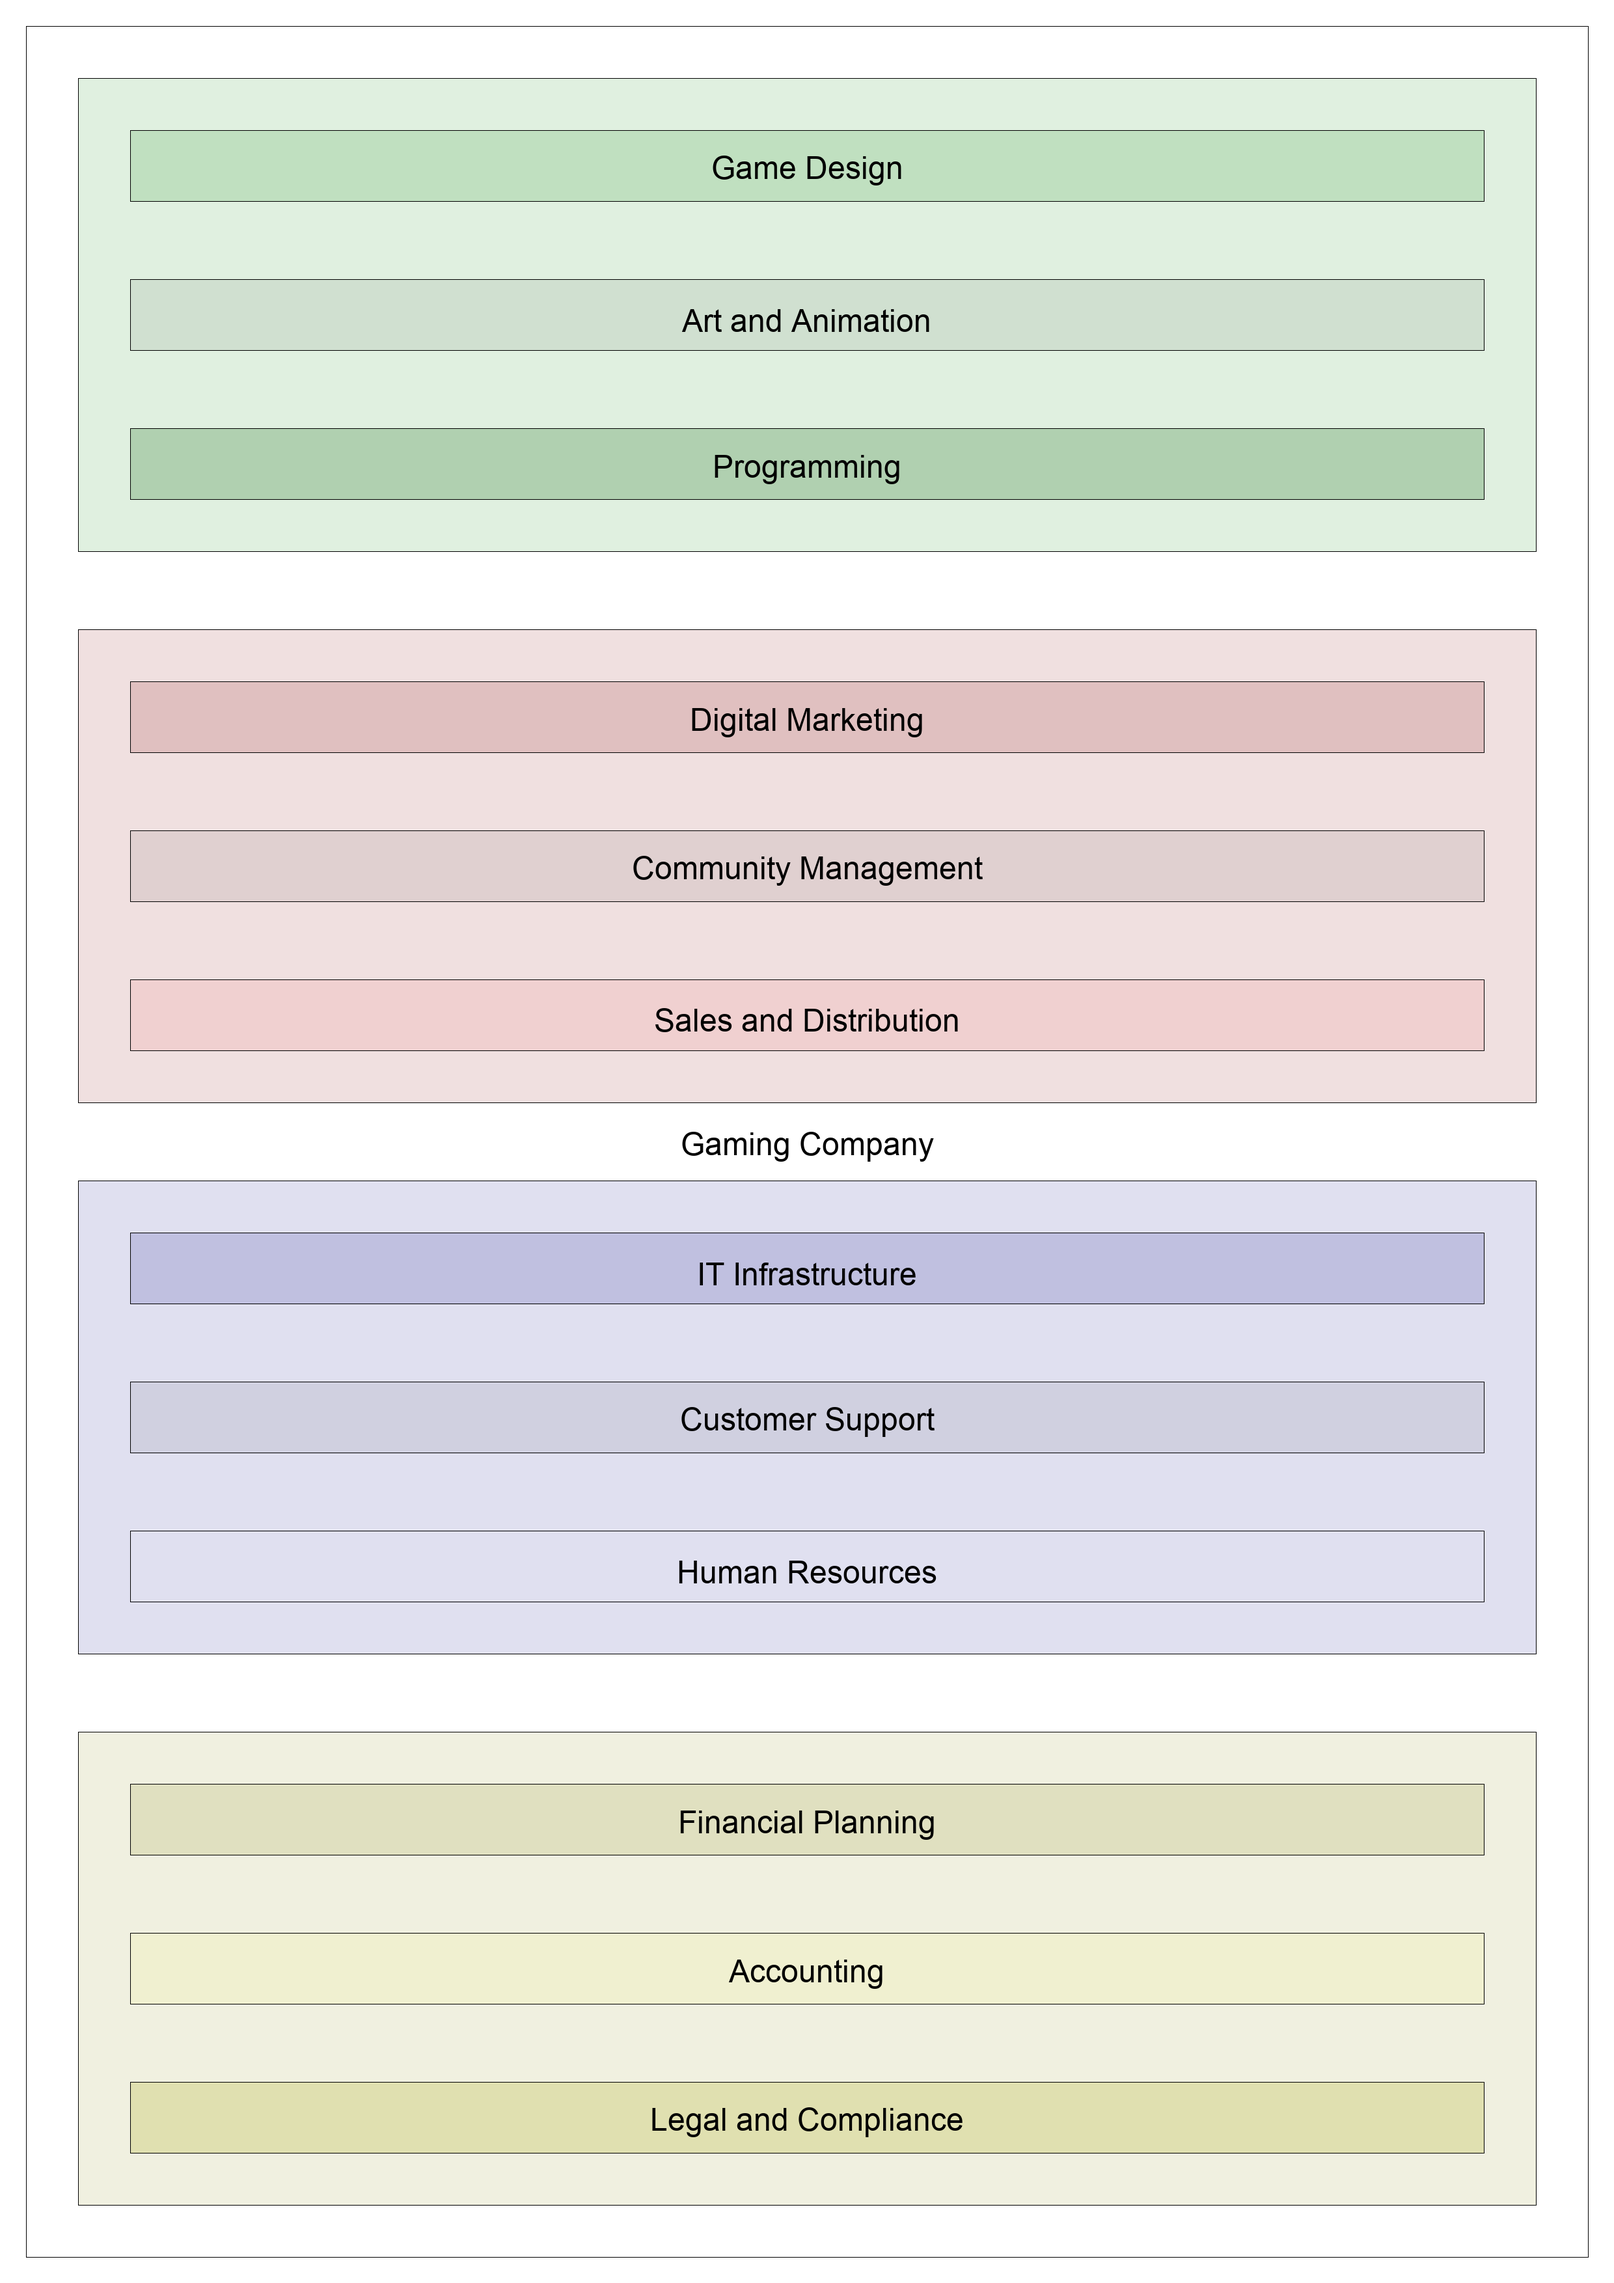
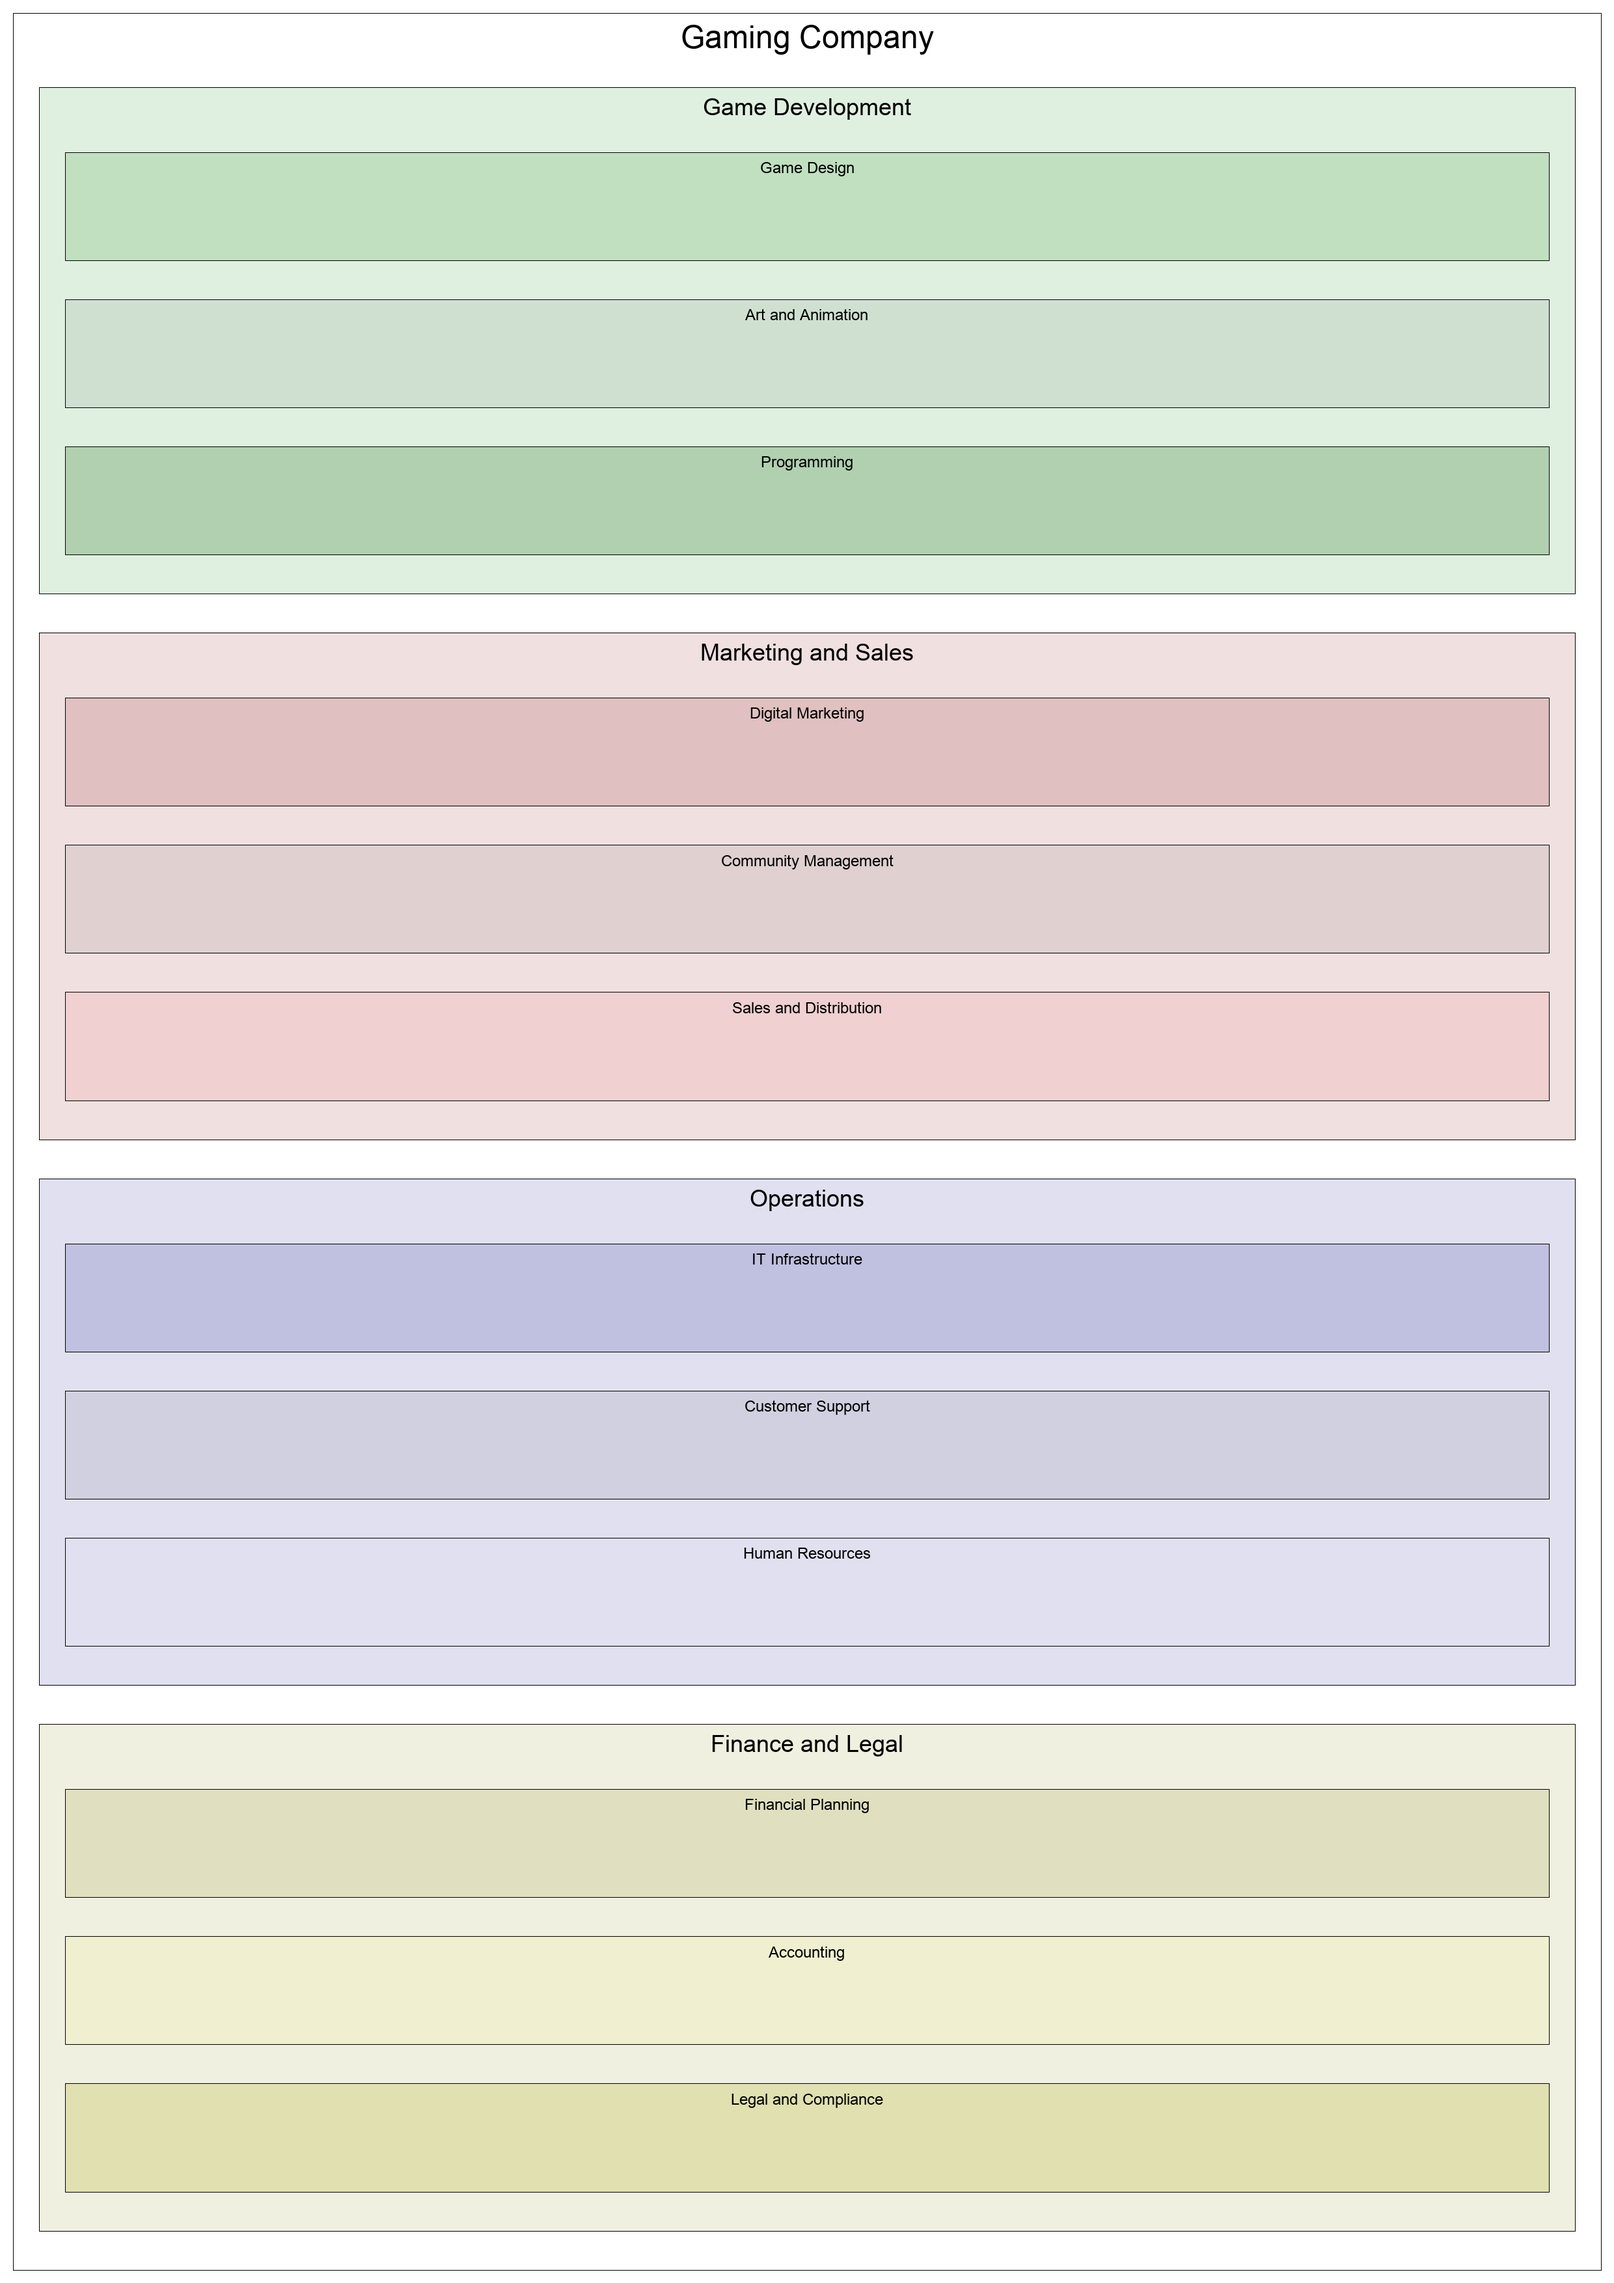
4th working version

Changed region(s): [[0.0, 0.0, 0.9935, 0.9943]]

diff --git a/bib-dsl.py b/bib-dsl.py
@@ -6,17 +6,22 @@ class BiBDSL:
     def __init__(self, yaml_file):
         self.data = self.load_yaml(yaml_file)
         self.boxes = {}
-        self.padding = 40
-        self.text_margin = 20
-        self.min_box_size = 100  # Increased minimum size for better readability
-        self.max_depth = 3  # Limit to 3 levels
+        self.padding = 20
+        self.text_margin = 10
+        self.min_box_size = 80
+        self.max_depth = 3
         self.image = Image.new('RGB', (2480, 3508), color='white')  # A4 size at 300 DPI
         self.draw = ImageDraw.Draw(self.image)
         try:
-            self.font = ImageFont.truetype("Arial.ttf", 48)  # Increased font size
+            self.fonts = {
+                0: ImageFont.truetype("Arial.ttf", 48),
+                1: ImageFont.truetype("Arial.ttf", 36),
+                2: ImageFont.truetype("Arial.ttf", 24)
+            }
         except IOError:
             print("Arial font not found, using default font")
-            self.font = ImageFont.load_default()
+            default_font = ImageFont.load_default()
+            self.fonts = {0: default_font, 1: default_font, 2: default_font}
 
     def load_yaml(self, yaml_file):
         try:
@@ -71,10 +76,17 @@ class BiBDSL:
         box['height'] = max(available_height - 2 * self.padding, self.min_box_size)
 
         if box['children']:
+            # Reserve space for the parent box label
+            font = self.fonts[min(box['level'], 2)]
+            _, _, _, label_height = self.draw.textbbox((0, 0), box['name'], font=font)
+            label_height += 2 * self.text_margin
+            remaining_height = box['height'] - label_height - self.padding
+
             num_children = len(box['children'])
-            child_height = max((box['height'] - self.padding * (num_children + 1)) / num_children, self.min_box_size)
+            child_height = max((remaining_height - self.padding * (num_children + 1)) / num_children, self.min_box_size)
+            
             for i, child in enumerate(box['children']):
-                child_y = box['y'] + self.padding + i * (child_height + self.padding)
+                child_y = box['y'] + label_height + self.padding + i * (child_height + self.padding)
                 child_height = min(child_height, box['height'] - (child_y - box['y']) - self.padding)
                 if child_height >= self.min_box_size:
                     self.calculate_positions(child, box['x'] + self.padding, child_y, box['width'] - 2 * self.padding, child_height)
@@ -88,15 +100,16 @@ class BiBDSL:
         self.draw.rectangle([box['x'], box['y'], box['x'] + box['width'], box['y'] + box['height']], 
                             outline='black', fill=box.get('color', 'white'))
         
-        left, top, right, bottom = self.draw.textbbox((0, 0), box['name'], font=self.font)
+        font = self.fonts[min(box['level'], 2)]  # Use the smallest font for levels 2 and beyond
+        left, top, right, bottom = self.draw.textbbox((0, 0), box['name'], font=font)
         text_width = right - left
         text_height = bottom - top
         
         text_x = box['x'] + (box['width'] - text_width) / 2
-        text_y = box['y'] + (box['height'] - text_height) / 2  # Center text vertically
-        
+        text_y = box['y'] + self.text_margin
+
         if text_width < box['width'] - 2 * self.text_margin and text_height < box['height'] - 2 * self.text_margin:
-            self.draw.text((text_x, text_y), box['name'], fill='black', font=self.font)
+            self.draw.text((text_x, text_y), box['name'], fill='black', font=font)
 
         for child in box['children']:
             self.draw_boxes(child)
